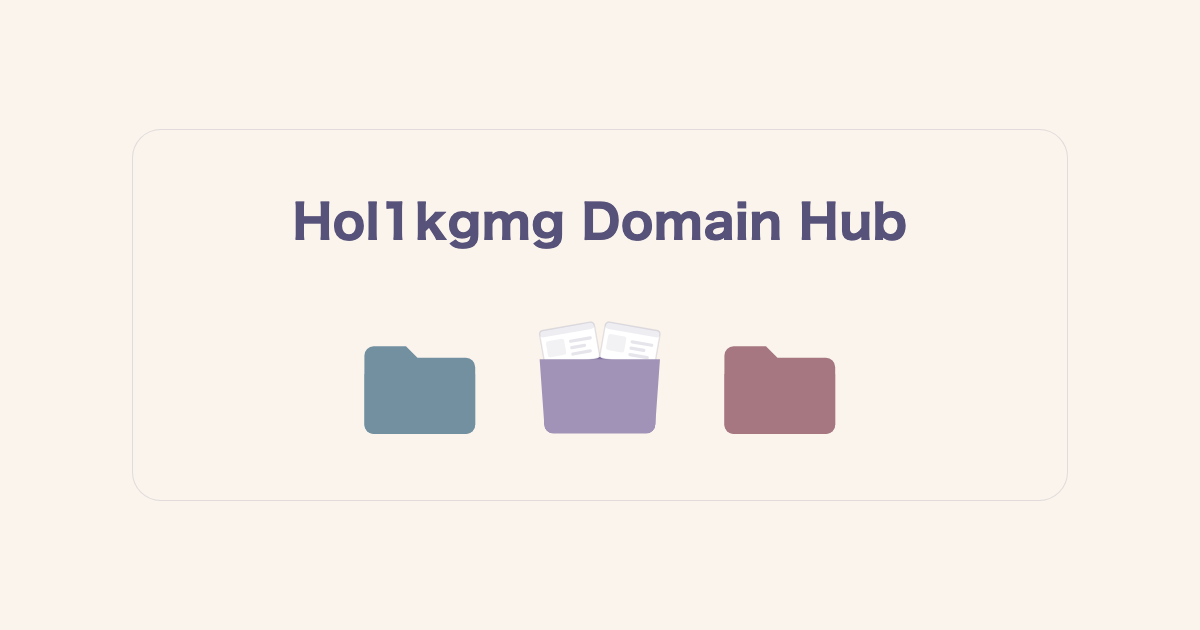
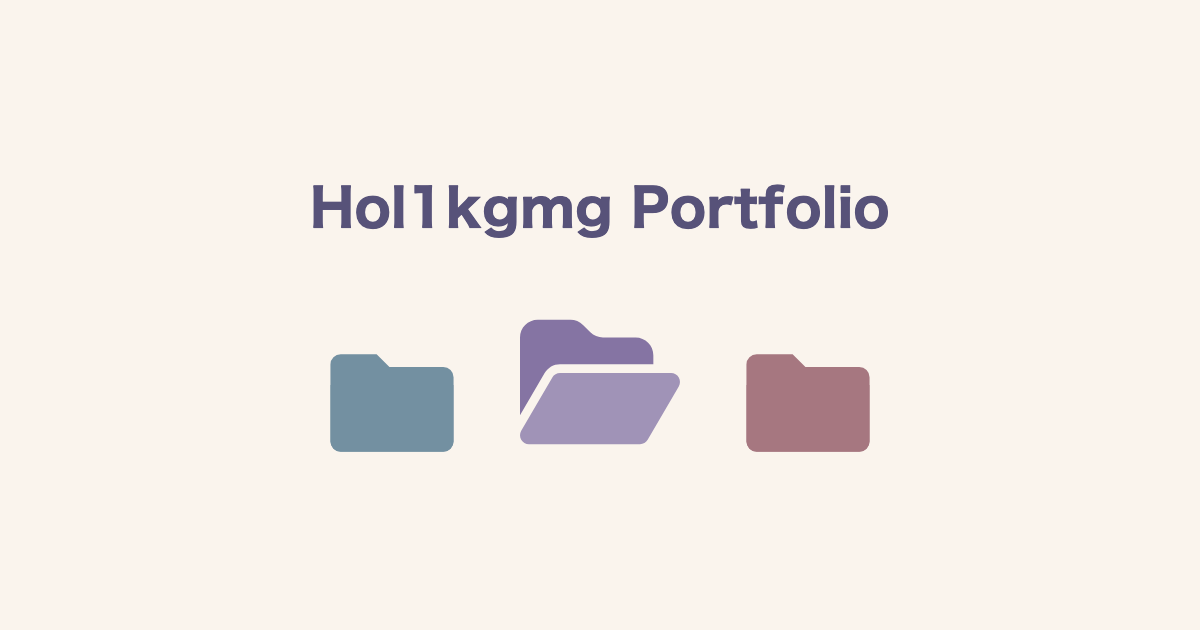
feat:link cardの改修

Changed region(s): [[0.2467, 0.2714, 0.7708, 0.3921], [0.4317, 0.4825, 0.74, 0.7238], [0.2775, 0.5429, 0.4008, 0.7238]]

diff --git a/web/src/app/opengraph-image.html b/web/src/app/opengraph-image.html
@@ -1,0 +1,146 @@
+<!doctype html>
+<html lang="ja">
+  <head>
+    <meta charset="utf-8" />
+    <meta name="viewport" content="width=device-width, initial-scale=1" />
+    <title>Hol1kgmg Portfolio</title>
+    <style>
+      :root {
+        --bg: #faf4ed;
+        --title: #575279;
+        --folder-1: #7390a1;
+        --folder-2: #8574a3;
+        --folder-3: #a67780;
+      }
+      * {
+        box-sizing: border-box;
+      }
+      body {
+        margin: 0;
+        min-height: 100vh;
+        display: grid;
+        place-items: center;
+        padding: 24px 16px;
+        background: var(--bg);
+        font-family: 'Hiragino Sans', 'Noto Sans JP', system-ui, sans-serif;
+      }
+
+      /* ===== リンクカード本体 ===== */
+      .link-card {
+        display: flex;
+        flex-direction: column; /* ロゴ ↓ フォルダ */
+        align-items: center;
+        gap: 28px;
+        width: 100%;
+        max-width: 520px;
+        padding: 32px 24px;
+        background: var(--bg);
+        border: 1px solid color-mix(in srgb, var(--title) 15%, transparent);
+        border-radius: 16px;
+        text-decoration: none;
+        transition:
+          transform 0.15s ease,
+          box-shadow 0.15s ease;
+      }
+      .link-card:hover {
+        transform: translateY(-2px);
+        box-shadow: 0 8px 24px color-mix(in srgb, var(--title) 15%, transparent);
+      }
+
+      /* ===== 上段:ロゴ ===== */
+      .logo {
+        margin: 0;
+        font-size: 26px;
+        font-weight: 800;
+        letter-spacing: 0.3px;
+        color: var(--title);
+        text-align: center;
+      }
+
+      /* ===== 下段:フォルダ3つ ===== */
+      .folders {
+        display: flex;
+        justify-content: center;
+        align-items: flex-end; /* 開いたフォルダと底をそろえる */
+        gap: 28px;
+      }
+      .folders svg {
+        width: 72px;
+        height: 59px;
+        overflow: visible;
+      }
+      .folders svg.open {
+        width: 80px;
+        height: 80px; /* viewBox 576x572 に合わせた高さ */
+      }
+
+      @media (max-width: 380px) {
+        .logo {
+          font-size: 21px;
+        }
+        .folders {
+          gap: 18px;
+        }
+        .folders svg {
+          width: 56px;
+          height: 46px;
+        }
+        .folders svg.open {
+          height: 58px;
+        }
+      }
+    </style>
+  </head>
+  <body>
+    <a
+      class="link-card"
+      href="https://hol1kgmg.com/"
+      target="_blank"
+      rel="noopener"
+      aria-label="Hol1kgmg Portfolio"
+    >
+      <h1 class="logo">Hol1kgmg Portfolio</h1>
+
+      <div class="folders" aria-hidden="true">
+        <svg viewBox="0 0 56 46">
+          <path
+            d="M4 8a4 4 0 0 1 4-4h14l5 5h21a4 4 0 0 1 4 4v25a4 4 0 0 1-4 4H8a4 4 0 0 1-4-4z"
+            fill="var(--folder-1)"
+          />
+          <path
+            d="M4 16h48v22a4 4 0 0 1-4 4H8a4 4 0 0 1-4-4z"
+            fill="var(--folder-1)"
+            opacity=".75"
+          />
+        </svg>
+
+        <!-- 真ん中:開いたフォルダ -->
+        <svg class="open" viewBox="0 0 576 512">
+          <!-- 奥側(タブ付き背面) -->
+          <path
+            d="M88.7 223.8L0 375.8V96c0-35.3 28.7-64 64-64h117.5c17 0 33.3 6.7 45.3 18.7l26.5 26.5c12 12 28.3 18.7 45.3 18.7L416 96c35.3 0 64 28.7 64 64v32H144c-22.8 0-43.8 12.1-55.3 31.8z"
+            fill="var(--folder-2)"
+          />
+
+          <!-- 手前側(開いた前面フラップ) -->
+          <path
+            d="M116.3 239.9c5.8-9.9 16.3-15.9 27.7-15.9h400c11.5 0 22 6.1 27.7 16.1s5.7 22.2-.1 32.1l-112 192C453.9 474 443.4 480 432 480H32c-11.5 0-22-6.1-27.7-16.1s-5.7-22.2.1-32.1l112-192z"
+            style="fill: color-mix(in srgb, var(--folder-2) 78%, white)"
+          />
+        </svg>
+
+        <svg viewBox="0 0 56 46">
+          <path
+            d="M4 8a4 4 0 0 1 4-4h14l5 5h21a4 4 0 0 1 4 4v25a4 4 0 0 1-4 4H8a4 4 0 0 1-4-4z"
+            fill="var(--folder-3)"
+          />
+          <path
+            d="M4 16h48v22a4 4 0 0 1-4 4H8a4 4 0 0 1-4-4z"
+            fill="var(--folder-3)"
+            opacity=".75"
+          />
+        </svg>
+      </div>
+    </a>
+  </body>
+</html>

diff --git a/web/src/app/layout.tsx b/web/src/app/layout.tsx
@@ -6,9 +6,14 @@ import { MswProvider } from '../libs/msw/msw-provider';
 import './globals.css';
 
 export const metadata: Metadata = {
-  title: 'Hol1kgmg | Subdomain Hub',
-  description: 'Hol1kgmg が運営するサブドメインをまとめたハブページです。',
+  title: 'Hol1kgmg Portfolio',
+  description: 'Hol1kgmg の制作物をまとめたポートフォリオです。',
   metadataBase: new URL('https://hol1kgmg.com'),
+  openGraph: {
+    type: 'website',
+    url: '/',
+    siteName: 'Hol1kgmg Portfolio',
+  },
 };
 
 export default function RootLayout({

diff --git a/web/src/app/page.tsx b/web/src/app/page.tsx
@@ -27,7 +27,7 @@ export default async function Home() {
           color: 'text',
         })}
       >
-        Hol1kgmg Subdomain List
+        Hol1kgmg Portfolio
       </h1>
       <SubdomainList cards={cards} />
     </main>
